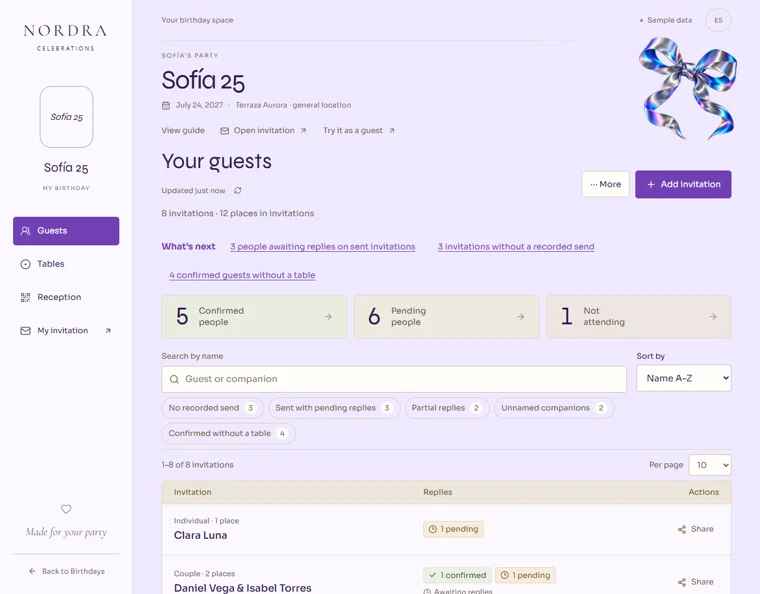
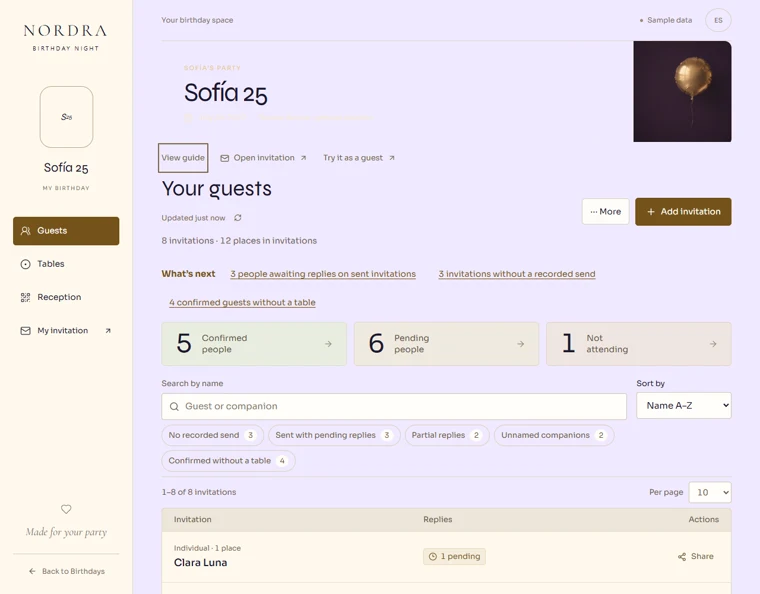
Presenta la colección y las vistas reales en la identidad Noche de cumple

diff --git a/cumpleanos.html b/cumpleanos.html
@@ -20,7 +20,7 @@
 
 
 
-<section class="scene entry business invitations occasion-page theme-birthday" data-view="cumpleanos" aria-labelledby="cumpleanos-occasion-title"><nav class="mobile-route" aria-label="Accesos rápidos de esta página"><a href="#cumpleanos-event-experience">Muestra</a><a href="#cumpleanos-planes-eventos">Planes</a>{{mobile:whatsapp}}</nav><div class="aurora-field" aria-hidden="true"></div><nav class="occasion-path" aria-label="Tipo de invitación"><a href="/invitaciones" data-go="invitaciones">Invitaciones</a><a href="/bodas" data-go="bodas">Bodas</a><a href="/cumpleanos" data-go="cumpleanos" aria-current="page">Cumpleaños</a><a href="/eventos" data-go="eventos">Eventos</a><a href="/temporada" data-go="temporada">Temporada</a></nav><div class="occasion-hero birthday-hero"><div class="occasion-kicker"><p class="eyebrow">CUMPLEAÑOS, POR NORDRA</p><button class="business-motion-control" type="button" data-business-toggle aria-pressed="false">Pausar movimiento</button></div><h1 id="cumpleanos-occasion-title"><span class="business-title-line">Se viene</span> <span class="business-title-line">tu cumple</span></h1><div class="occasion-hero-live showcase-live"><div class="live-phone nordra-phone"><div class="live-screen"><img src="/artwork/invitation-covers/sofia-25.webp" width="780" height="1688" alt="Portada lavanda de Sofía 25, con su nombre y un listón cromado completo" loading="eager" fetchpriority="high" decoding="async"></div></div><p class="live-actions"><a class="live-try" href="/invitaciones/sofia-25/" data-live-try="Invitación de Sofía 25">Pruébala aquí <span aria-hidden="true">↗</span></a><span class="live-note">Un diseño de Nordra</span></p></div><div class="occasion-lead"><p>Tu fiesta empieza con una invitación a tu estilo.</p><a class="horizon-button" href="#cumpleanos-event-experience">Encuentra tu estilo <span aria-hidden="true">↓</span></a><a class="options-compare" href="#cumpleanos-planes-eventos">Ver paquetes <span aria-hidden="true">↗</span></a></div></div><section class="home-continuation wedding-sample occasion-stage" id="cumpleanos-respuesta" aria-labelledby="cumpleanos-response-title">
+<section class="scene entry business invitations occasion-page theme-birthday" data-view="cumpleanos" aria-labelledby="cumpleanos-occasion-title"><nav class="mobile-route" aria-label="Accesos rápidos de esta página"><a href="#cumpleanos-event-experience">Muestra</a><a href="#cumpleanos-planes-eventos">Planes</a>{{mobile:whatsapp}}</nav><nav class="occasion-path" aria-label="Tipo de invitación"><a href="/invitaciones" data-go="invitaciones">Invitaciones</a><a href="/bodas" data-go="bodas">Bodas</a><a href="/cumpleanos" data-go="cumpleanos" aria-current="page">Cumpleaños</a><a href="/eventos" data-go="eventos">Eventos</a><a href="/temporada" data-go="temporada">Temporada</a></nav><div class="occasion-hero birthday-hero"><div class="occasion-kicker"><p class="eyebrow">CUMPLEAÑOS, POR NORDRA</p><button class="business-motion-control" type="button" data-business-toggle aria-pressed="false">Pausar movimiento</button></div><h1 id="cumpleanos-occasion-title"><span class="business-title-line">Hay mucho</span> <span class="business-title-line">que celebrar</span></h1><div class="occasion-hero-live showcase-live"><div class="live-phone nordra-phone"><div class="live-screen"><img src="/artwork/birthday-noche/sofia-portada-780.webp" srcset="/artwork/birthday-noche/sofia-portada-390.webp 390w, /artwork/birthday-noche/sofia-portada-780.webp 780w" sizes="(max-width:700px) 180px, 265px" width="780" height="1688" alt="Portada de Sofía 25 con un globo de foil dorado" loading="eager" fetchpriority="high" decoding="async"></div></div><p class="live-actions"><a class="live-try" href="/invitaciones/sofia-25/" data-live-try="Invitación de Sofía 25">Pruébala aquí <span aria-hidden="true">↗</span></a><span class="live-note">Un diseño de Nordra</span></p></div><div class="occasion-lead"><p>De los cinco a los cincuenta, tus XV o tu aniversario: la invitación lleva tu estilo.</p><a class="horizon-button" href="#cumpleanos-event-experience">Encuentra tu estilo <span aria-hidden="true">↓</span></a><a class="options-compare" href="#cumpleanos-planes-eventos">Ver paquetes <span aria-hidden="true">↗</span></a></div></div><section class="home-continuation wedding-sample occasion-stage" id="cumpleanos-respuesta" aria-labelledby="cumpleanos-response-title">
  <span class="occasion-anchor" id="cumpleanos-event-experience"></span><span class="occasion-anchor" id="event-experience"></span>
  <div class="wedding-direction"><h2 id="cumpleanos-response-title">Así llega cada respuesta</h2><p>Muestra interactiva · datos ficticios</p>
  <div class="wedding-switch" role="tablist" aria-label="Recorrido de la muestra" aria-orientation="vertical">
@@ -29,16 +29,16 @@
  <div class="wedding-links"><a href="/invitaciones/sofia-25/">Abrir la invitación completa ↗</a><a href="/panel-cumple.html">Probar el panel de muestra ↗</a></div></div>
  <div class="wedding-stage" id="cumpleanos-panel-muestra" role="tabpanel" aria-labelledby="cumpleanos-tab-invitacion" data-step="cover">
  <div class="wedding-devices"><a class="wedding-dashboard" href="/panel-cumple.html" aria-label="Probar el panel de muestra"><img src="/artwork/birthday-dashboard-preview/dashboard-es-760.webp" srcset="/artwork/birthday-dashboard-preview/dashboard-es-760.webp 760w, /artwork/birthday-dashboard-preview/dashboard-es-1280.webp 1280w" sizes="(max-width:700px) 86vw, 55vw" alt="Panel de Sofía 25" loading="lazy"></a>
- <div class="wedding-phone"><img src="/artwork/invitation-covers/sofia-25-detalles-390.webp" srcset="/artwork/invitation-covers/sofia-25-detalles-390.webp 390w, /artwork/invitation-covers/sofia-25-detalles-780.webp 780w" sizes="(max-width:700px) 43vw, 318px" width="390" height="844" loading="lazy" alt="Fecha y agenda de Sofía 25"></div></div>
+ <div class="wedding-phone"><img src="/artwork/birthday-noche/sofia-detalles-390.webp" srcset="/artwork/birthday-noche/sofia-detalles-390.webp 390w, /artwork/birthday-noche/sofia-detalles-780.webp 780w" sizes="(max-width:700px) 43vw, 318px" width="390" height="844" loading="lazy" alt="Fecha y agenda de Sofía 25"></div></div>
  <p class="wedding-credit">Sofía 25 · Un diseño de Nordra</p></div></section><section class="home-continuation occasion-plans" id="cumpleanos-planes-eventos"><span class="occasion-anchor" id="planes-eventos"></span>
  <h2 id="cumpleanos-decision-title">Aurora y Boreal</h2><p>Precios de apertura y regulares en MXN, con IVA incluido. Pago único.</p>
  <div class="occasion-plan-grid">{{occasion:cumpleanos:plans}}</div><div class="occasion-extra"><details><summary>Servicios adicionales<span aria-hidden="true">+</span></summary><p>Lo que acordamos en tu paquete está incluido: tus fotos, enlaces a mapas, el formulario y el panel de invitados. Puedes compartir tu enlace manualmente por WhatsApp sin un cargo adicional de Nordra. Si quieres sumar mensajes automáticos, venta de entradas o alguna integración de pago, primero te explicamos los costos de configuración y las comisiones del proveedor. Tú decides si seguimos adelante antes de contratar o activar algo.</p></details></div></section><section class="home-continuation audience-faq" id="cumpleanos-preguntas" aria-labelledby="cumpleanos-faq-title"><div><h2 id="cumpleanos-faq-title">Preguntas frecuentes</h2></div><div class="faq-list">{{occasion:cumpleanos:faq}}</div></section><section class="home-continuation studio-process process-roadmap" id="cumpleanos-proceso-invitaciones" aria-labelledby="cumpleanos-invitation-process-title">
-<div class="aurora-field continuation-aurora process-aurora" aria-hidden="true"></div>
+
 <div class="process-heading"><div class="process-intro"><h2 id="cumpleanos-invitation-process-title">Tú pones el plan<br>Nosotros, el diseño</h2></div></div>
 <ol class="process-list"><li><div class="process-step-copy"><h3>Cuéntanos tu idea de fiesta</h3></div></li><li><div class="process-step-copy"><h3>Elegimos colores y detalles</h3></div></li><li><div class="process-step-copy"><h3>Invita a tus personas favoritas</h3></div></li></ol>
 <div class="process-finish"><a class="terms-link" href="/terminos-del-servicio.html" target="_blank" rel="noopener">Consultar condiciones del servicio ↗</a></div>
 </section><footer class="home-continuation studio-footer home-closing" id="cumpleanos-contacto-invitaciones">
- <div class="aurora-field continuation-aurora closing-aurora" aria-hidden="true"></div>
+ 
  <p class="eyebrow">NORDRA STUDIO · CUMPLEAÑOS</p>
  <h2>Ahora sí<br><span>arma el plan</span></h2>
  <div class="contact-layout"><p>Cuéntanos la fecha y el estilo de tu fiesta.</p><div><a class="primary-action" href="https://wa.me/528129022231?text=Hola%2C%20Nordra.%20Me%20gustar%C3%ADa%20una%20invitaci%C3%B3n%20digital%20para%20un%20cumplea%C3%B1os." target="_blank" rel="noopener" data-analytics-whatsapp="closing">Cuéntanos de tu cumple <span aria-hidden="true">↗</span></a></div></div>

diff --git a/src/site/entries/birthdays.js b/src/site/entries/birthdays.js
@@ -1,9 +1,6 @@
 // Scope side effects to this entry so shared chunks cannot reorder initialization.
 // Vite consumes this module ID query; emitted asset URLs use content hashes only.
 import '../scripts/journey.js?entry=birthdays';
-import '../scripts/scroll-travel.js?entry=birthdays';
-import '../scripts/mobile-aurora.js?entry=birthdays';
-import '../scripts/motion.js?entry=birthdays';
 import '../scripts/scroll-motion.js?entry=birthdays';
 import '../scripts/business-motion.js?entry=birthdays';
 import '../scripts/wedding-stage.js?entry=birthdays';
@@ -12,8 +9,6 @@ import '../styles/phone-frame.css';
 import '../styles/showcase-live.css';
 import '../styles/occasion-live.css';
 import '../scripts/showcase-live.js?entry=birthdays';
-import '../scripts/nordra-materials.js?entry=birthdays';
-import '../scripts/nordra-theatre.js?entry=birthdays';
 import '../scripts/interface-icons.js?entry=birthdays';
 import '../styles/mobile-chrome.css';
 import '../styles/language-switch.css';
@@ -22,3 +17,4 @@ import '../scripts/language-switch.js?entry=birthdays';
 import '../scripts/page-navigation.js?entry=birthdays';
 import '../analytics/entry.js';
 import '../styles/occasion-stage.css';
+import '../styles/birthday-noche.css';

diff --git a/invitaciones.html b/invitaciones.html
@@ -24,7 +24,7 @@
 <h2 id="inv-directory-title">¿Qué celebras?</h2>
 <div class="inv-occasions">
 <div><a href="/bodas" data-go="bodas">Bodas <span aria-hidden="true">↗</span></a><p>Una invitación con su historia.</p></div>
-<div><a href="/cumpleanos" data-go="cumpleanos">Cumpleaños <span aria-hidden="true">↗</span></a><a class="inv-sample" href="/invitaciones/sofia-25/">Ver Sofía 25 ↗</a></div>
+<div class="inv-birthday-noche"><a href="/cumpleanos" data-go="cumpleanos">Cumpleaños <span aria-hidden="true">↗</span></a><a class="inv-sample" href="/invitaciones/sofia-25/">Ver Sofía 25 ↗</a><img class="inv-birthday-art" src="/artwork/birthday-noche/solo-400.webp" srcset="/artwork/birthday-noche/solo-400.webp 400w, /artwork/birthday-noche/solo-640.webp 640w" sizes="100px" width="100" height="100" loading="lazy" alt=""></div>
 <div><a href="/eventos" data-go="eventos">Eventos <span aria-hidden="true">↗</span></a><a class="inv-sample" href="/invitaciones/conexion-27/">Ver Conexión 27 ↗</a></div>
 <div><a href="/temporada" data-go="temporada">Temporada <span aria-hidden="true">↗</span></a><p>Posadas y fin de año.</p></div>
 </div></section>

diff --git a/src/site/styles/tokens.css b/src/site/styles/tokens.css
@@ -49,20 +49,20 @@ body[data-scene=bodas].dark {
 
 /* Cumpleaños · claro. */
 body[data-scene=cumpleanos] {
-  --bg: #f6f5ff;
-  --ink: #222951;
-  --muted: #67677c;
-  --accent: #4845bb;
-  --line: #4845bb25;
+  --bg: #f4e9d3;
+  --ink: #1d1a2e;
+  --muted: #5d5164;
+  --accent: #74531b;
+  --line: #74531b40;
 }
 
 /* Cumpleaños · oscuro. */
 body[data-scene=cumpleanos].dark {
-  --bg: #141326;
-  --ink: #f1eeff;
-  --muted: #c5bddb;
-  --accent: #bdb2ff;
-  --line: #c5bddb44;
+  --bg: #1d1a2e;
+  --ink: #f4e9d3;
+  --muted: #d9c7b0;
+  --accent: #e6c98e;
+  --line: #e6c98e40;
 }
 
 /* Eventos · claro. */
@@ -113,7 +113,7 @@ body[data-scene=temporada].dark {
 
 /* Cumpleaños · acento oscuro de las secciones de identidad. */
 .dark .theme-birthday {
-  --accent: #bdb2ff;
+  --accent: #e6c98e;
 }
 
 /* Eventos · acento oscuro de las secciones de identidad. */

diff --git a/src/site/styles/invitation-offers.css b/src/site/styles/invitation-offers.css
@@ -100,3 +100,8 @@
 }
 @media(prefers-reduced-motion:reduce){.invitations :is(.inv-directory,.invite-offers,.invite-journey,.invite-seasons,.client-case,.inv-actions) *{transition:none!important;animation:none!important}}
 body[data-journey-motion=paused] .invitations :is(.inv-directory,.invite-offers,.invite-journey,.invite-seasons,.client-case,.inv-actions) *{transition:none!important;animation:none!important}
+
+.inv-occasions>.inv-birthday-noche{position:relative;isolation:isolate;overflow:hidden;background:#1d1a2e}
+.inv-occasions>.inv-birthday-noche a{color:#f4e9d3;position:relative;z-index:1;width:fit-content}
+.inv-occasions>.inv-birthday-noche .inv-sample{color:#e6c98e}
+.inv-birthday-art{position:absolute;right:0;top:0;height:100%;width:32%;object-fit:cover;mask-image:linear-gradient(to right,transparent,#000 35%)}

diff --git a/src/site/styles/birthday-noche.css b/src/site/styles/birthday-noche.css
@@ -1,0 +1,11 @@
+@import '../../styles/noche-fonts.css';
+
+.theme-birthday{font-family:NocheManrope,Manrope,sans-serif}
+.theme-birthday :is(h1,h2,h3){font-family:NocheSerif,Georgia,serif;font-weight:550;letter-spacing:-.035em}
+.theme-birthday .birthday-hero .business-title-line:last-child{font-style:italic;color:var(--accent)}
+.theme-birthday .occasion-stage .wedding-dashboard::after{top:84.7%}
+html[lang=en] .theme-birthday .occasion-stage .wedding-dashboard::after{top:89.5%}
+.theme-birthday .invite-card{background:var(--bg);border-color:var(--line)}
+.dark .theme-birthday .invite-card{background:#30263f}
+.theme-birthday .invite-featured{border-color:var(--accent)}
+.theme-birthday .light-gathering::after{content:none}
